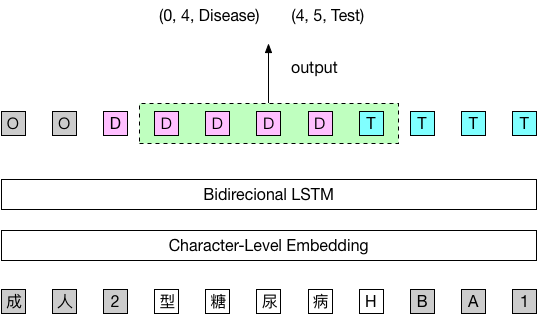
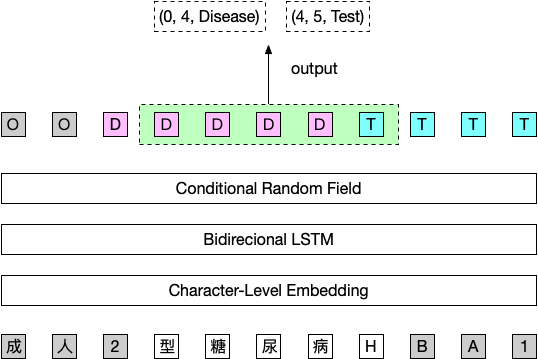
Add readme (#1)
* add readme

diff --git a/README.md b/README.md
@@ -1,0 +1,94 @@
+# 瑞金医院MMC人工智能辅助构建知识图谱大赛 (第一赛季)
+
+[竞赛链接](https://tianchi.aliyun.com/competition/introduction.htm?raceId=231687)
+
+注: 由于 github 对 `.ipynb` 渲染效果不是很好，代码建议通过 [nbviewer](http://nbviewer.jupyter.org/github/beader/ruijin_round1/blob/master/BiLSTM_CRF.ipynb) 查看。
+
+## 背景
+
+本次大赛旨在通过糖尿病相关的教科书、研究论文来做糖尿病文献挖掘并构建糖尿病知识图谱。初赛赛题在学术论文和临床指南的基础上，做实体的标注。实体类别共十五类.
+
+类别名称和实体定义:
+
+|实体类型|标注名称|说明|
+|:---|:---|:---|
+|疾病名称|Disease|如I型糖尿病|
+|病因|Reason|疾病的成因、危险因素及机制。比如“糖尿病是由于胰岛素抵抗导致”，胰岛素抵抗是属于病因|
+|临床表现|Symptom|包括症状、体征，病人直接表现出来的和需要医生进行查体得出来的判断。如"头晕" "便血" 等|
+|检查方法|Test|包括实验室检查方法，影像学检查方法，辅助试验，对于疾病有诊断及鉴别意义的项目等，如甘油三酯。|
+|检查指标值|Test_Value|指标的具体数值，阴性阳性，有无，增减，高低等，如”>11.3 mmol/L”|
+|药品名称|Drug|包括常规用药及化疗用药，比如胰岛素|
+|用药频率|Frequency|包括用药的频率和症状的频率，比如一天两次|
+|用药剂量|Amount|比如500mg/d|
+|用药方法|Method|比如早晚，餐前餐后，口服，静脉注射，吸入等|
+|非药治疗|Treatment|在医院环境下进行的非药物性治疗，包括放疗，中医治疗方法等，比如推拿|
+|手术|Operation|包括手术名称，如代谢手术等|
+|不良反应|SideEff|用药后的不良反应|
+|部位|Anatomy|包括解剖部位和生物组织，比如人体各个部位和器官，胰岛细胞|
+|程度|level|包括病情严重程度，治疗后缓解程度等|
+|持续时间|Duration|包括症状持续时间，用药持续时间，如“头晕一周”的“一周”|
+
+## 数据样例
+
+`0.txt`
+
+```
+中国成人2型糖尿病HBA1C  c控制目标的专家共识
+目前,2型糖尿病及其并发症已经成为危害公众
+健康的主要疾病之一,控制血糖是延缓糖尿病进展及
+其并发症发生的重要措施之一。虽然HBA1C  。是评价血
+糖控制水平的公认指标,但应该控制的理想水平即目
+标值究竟是多少还存在争议。糖尿病控制与并发症试
+验(DCCT,1993)、熊本(Kumamoto,1995)、英国前瞻性
+糖尿病研究(UKPDS,1998)等高质量临床研究已经证
+实,对新诊断的糖尿病患者或病情较轻的患者进行严
+格的血糖控制会延缓糖尿病微血管病变的发生、发展,
+```
+
+`0.ann`
+
+```
+T1	Disease 1845 1850	1型糖尿病
+T2	Disease 1983 1988	1型糖尿病
+T4	Disease 30 35	2型糖尿病
+T5	Disease 1822 1827	2型糖尿病
+T6	Disease 2055 2060	2型糖尿病
+T7	Disease 2324 2329	2型糖尿病
+T8	Disease 4325 4330	2型糖尿病
+T9	Disease 5223 5228	2型糖尿病
+T10	Disease 5794 5799	2型糖尿病
+T11	Disease 5842 5847	2型糖尿病
+...
+```
+
+数据使用 [brat](http://brat.nlplab.org/) 进行标注，每个 .txt 文件对应一个 .ann 标注文件。
+
+.ann 文件有3列，以 `\t` 分隔，第一列为实体编号，第二列为实体类别，第三列为实体位置信息。实体位置信息共3列， 以空格分隔，分别代表实体的开始位置，结束位置，实体文本。
+
+![](imgs/brat_preview.png)
+
+
+## 模型
+
+通过 Google **NER** 方面的文章，发现比较常见的一种方法是 Bidirectional LSTM + CRF 的方法，实现起来也比较简单，因此可以作为一个很好的 baseline。对于这次比赛，处理起来比较麻烦的有以下几个方面:
+
+1. 我们是对一篇文章去做实体标注，文章的字数可能很长(几千到上万字)，不可能直接输入到一个 RNN 中。
+2. 样本中文章可能由于格式转换的一些原因，没有一个很好的句子边界，甚至一个词汇当中存在换行符 `\n` 或者句号 `。` 的情况，因此用换行符或者句号去切割句子不一定合适。如果按照固定窗口大小的滑动窗口去切句子，刚好把一个实体切分成2个部分怎么办？
+3. 中文文本，面临是否要分词的选择。
+
+最终我采用一种比较特殊的滑动窗口去切句子:
+
+![](imgs/extract_sentences.png)
+
+即使用一个窗口大小与步长相等的滑动窗口去切句子，切完的句子再分别想左右伸展一定数量的文字。这样做的好处是每个句子出来的长度是相等的，并且每个句子都得到了一些上下文的内容。譬如上面的例子是用一个窗口大小与步长都为5的滑动窗口去切割，之后分别再向左右展开3个字，变成长度 11 的句子。实际 training 的时候，我会要求模型输出对这11个字的类别做预测，但在做 inference 的时候，会将左右展开的部分去除，只保留中间5个字的输出。这样一来可以较好的解决切分点刚好卡在一个 entity 当中的情况，并且做预测的时候得到了周围2个句子的部分上下文信息。
+
+![](imgs/training_samples.png)
+
+考虑到如果使用分词方案，需要不少前处理工作，因为存在不少 entity 当中包含 `\n` 的例子，并且测试样例当中新词可能较多的情况，因此我没有对文章进行分词，而是直接使用所有数据训练一个字符级别的字向量的做法。
+
+![](imgs/model.png)
+
+## 效果评估
+
+初赛采用 F1-Score 来衡量模型效果。这个 baseline model 线下实验大约在 0.77 左右，线上大约能达到 0.75+ 的水平。
+
